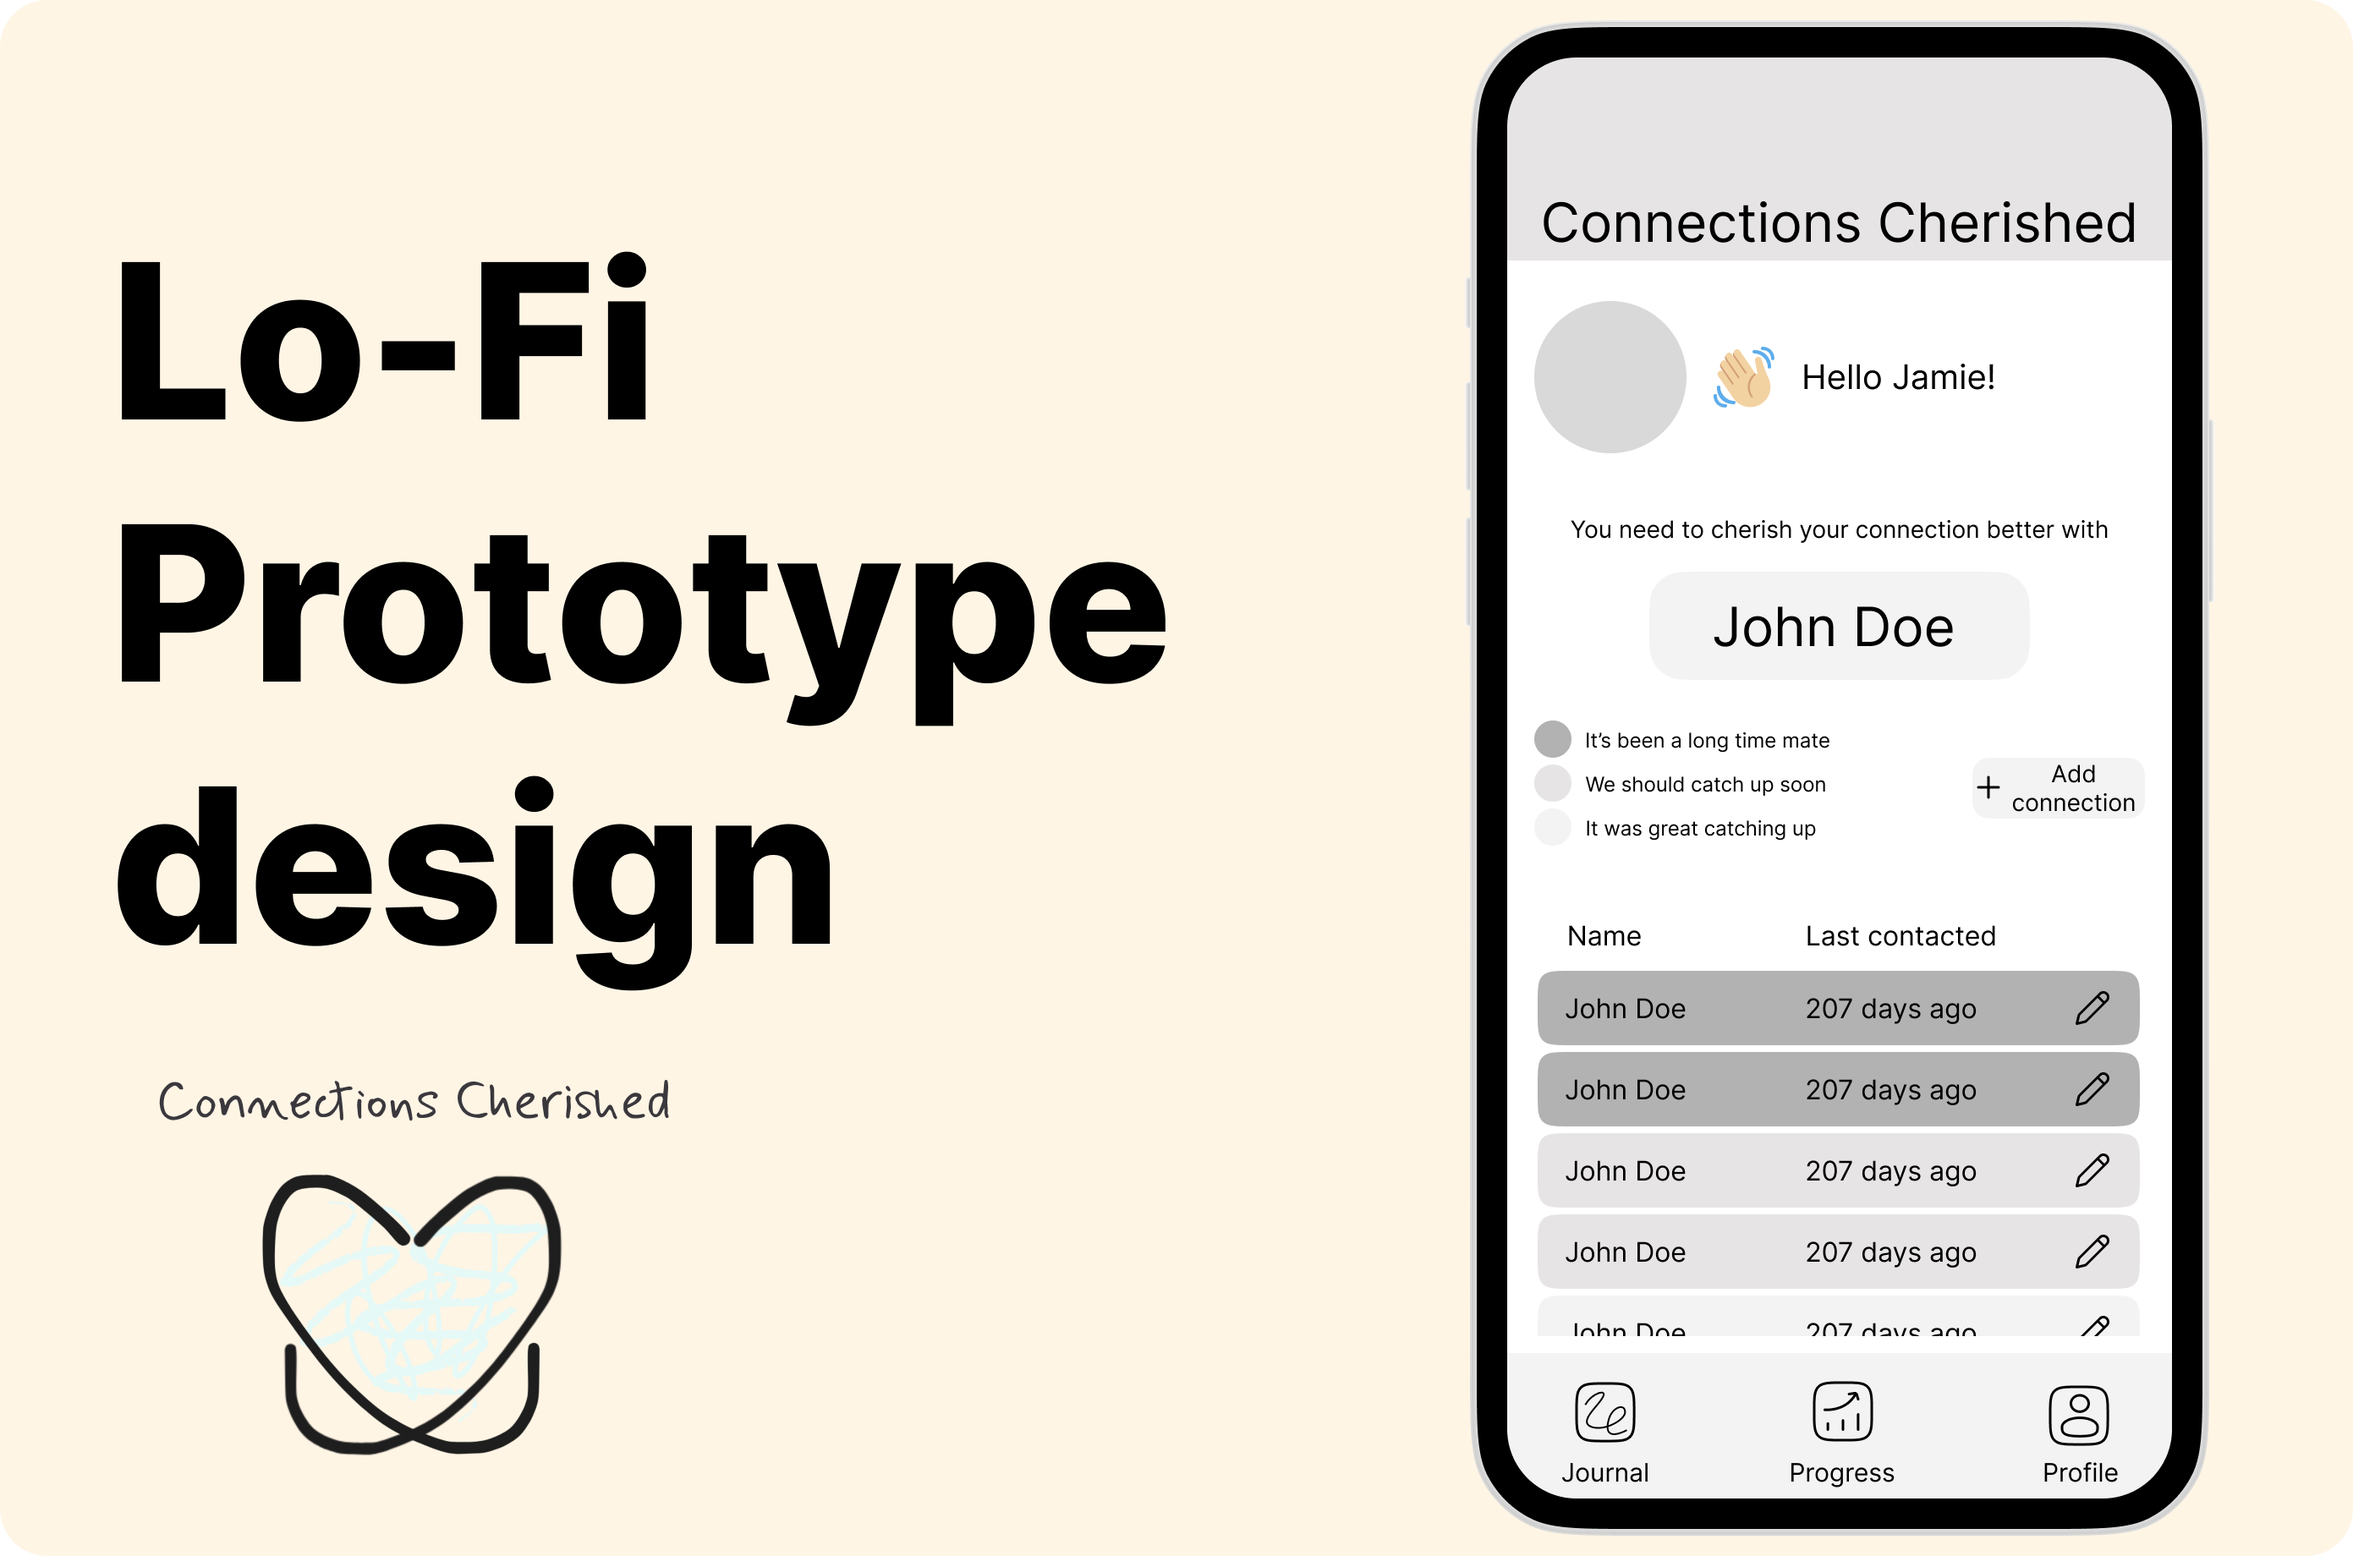
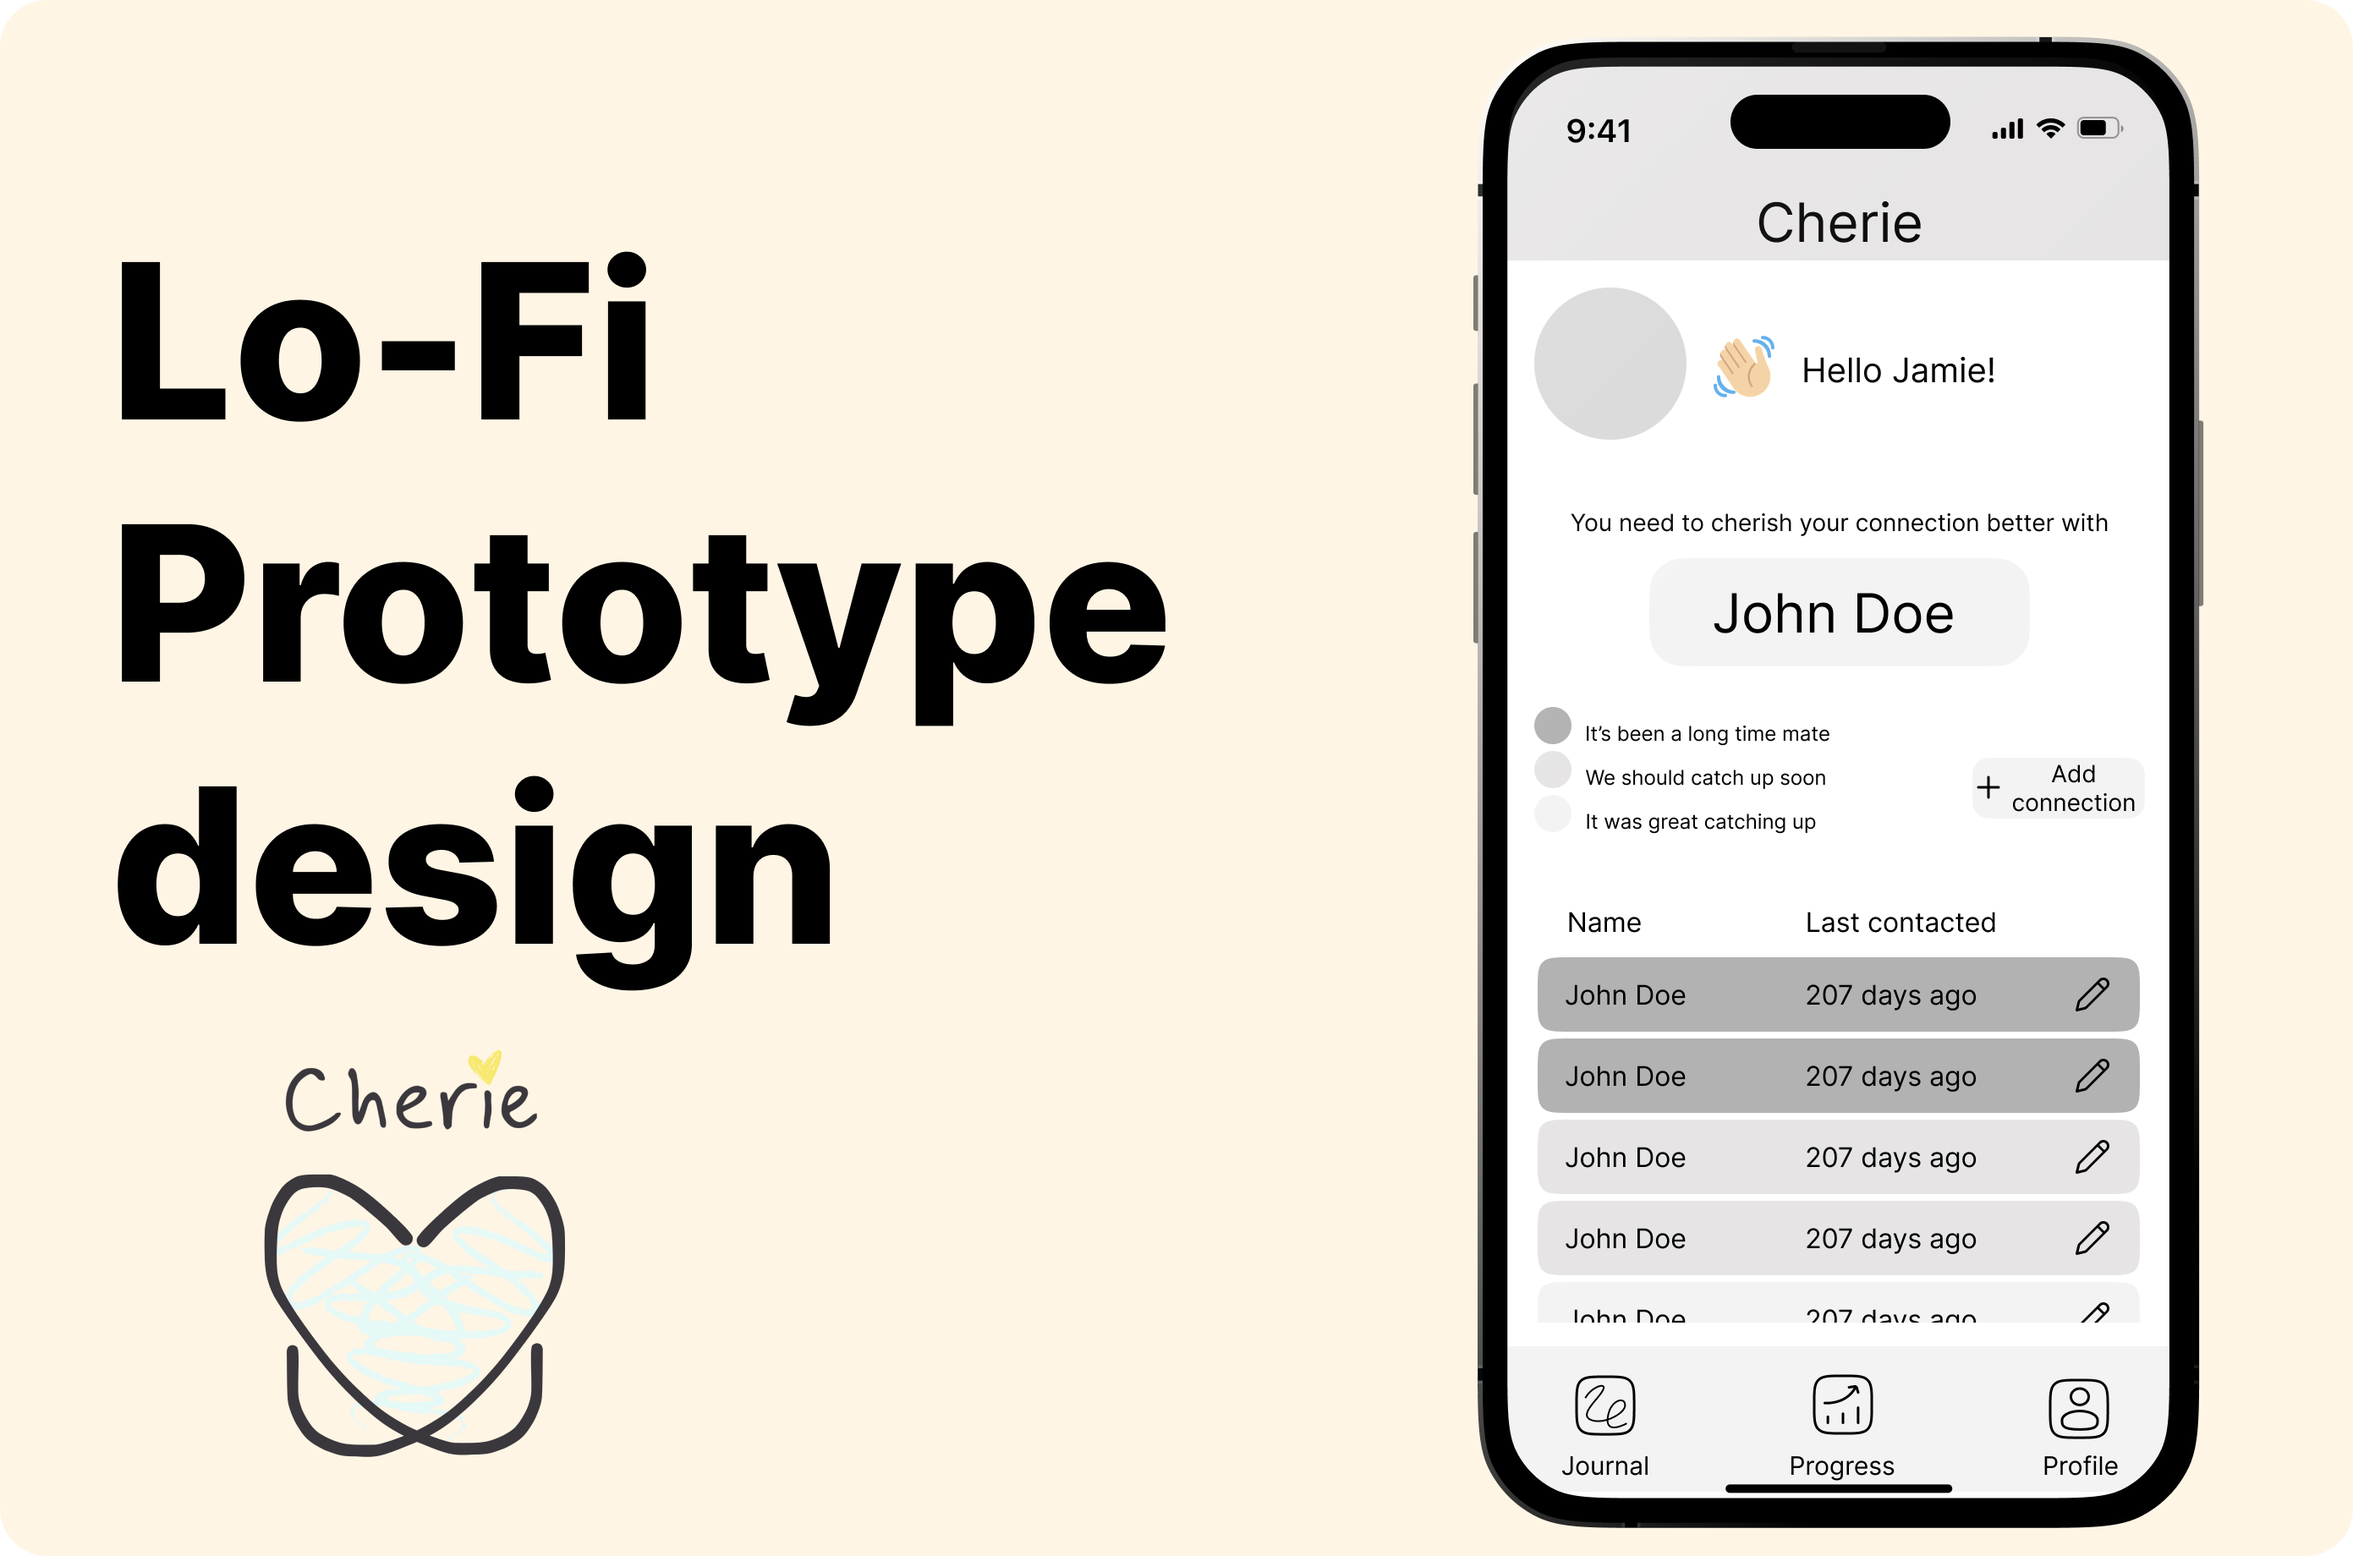
fix protos

diff --git a/pages/projects/connectionsCherished.tsx b/pages/projects/connectionsCherished.tsx
@@ -15,7 +15,7 @@ export default function ConnectionsCherished () {
                 <Image src={`${baseAssetUrl}title.png`} alt="mockup" height={50} width={290} layout="responsive" className="flex w-full h-auto"/>
             </div>
             <div className='header-text w-[80%] md:w-[60%] lg:w-[60%] sm:w-[80%]'>
-                Connections Cherished is designed to help users nurture their friendships by providing <span className='bolder-text'>thoughtful reminders to stay in touch</span>. In today’s fast-paced world, maintaining meaningful relationships can often take a backseat and Cherished Connections seeks to make staying connected effortless.
+                Cherie is designed to help users nurture their friendships by providing <span className='bolder-text'>thoughtful reminders to stay in touch</span>. In today’s fast-paced world, maintaining meaningful relationships can often take a backseat and Cherie seeks to make staying connected effortless.
             </div>
             <div className="flex w-full justify-center perspective-container">
                <div className="grid lg:grid-cols-4 md:grid-cols-4 sm:grid-cols-4 grid-cols-4 gap-2 w-[90%]">
@@ -54,7 +54,7 @@ export default function ConnectionsCherished () {
                 </div>
                 <div className='header-underline mt-2 mb-4'></div> 
                 <div className='description-text w-full'>
-                    In a world dominated by busy schedules and digital distractions, many people struggle to maintain consistent communication with their friends and loved ones. Cherished Connections was born from the insight that small, regular interactions can greatly strengthen relationships, yet they are often overlooked.
+                    In a world dominated by busy schedules and digital distractions, many people struggle to maintain consistent communication with their friends and loved ones. Cherie was born from the insight that small, regular interactions can greatly strengthen relationships, yet they are often overlooked.
                </div>
                <div className="header-title pt-4">
                 User Research Process
@@ -142,7 +142,7 @@ export default function ConnectionsCherished () {
                 </div>
                 <div className='header-underline mt-2 mb-4'></div> 
                 <div className='description-text w-full'>
-                    The design philosophy behind Cherished Connections was <span className='bolder-text'>centered around empathy and usability</span>.
+                    The design philosophy behind Cherie was <span className='bolder-text'>centered around empathy and usability</span>.
                     After identifying key pain points such as <span className='bolder-text'>forgetfulness, scheduling difficulties, and lack of conversation starters</span>, I designed a user-friendly interface that would help users overcome these challenges.
                     <ol className="bullet-list pt-4">
                         <li>
@@ -179,7 +179,7 @@ export default function ConnectionsCherished () {
                         </li>
                         <li>
                             <div className="description-text">
-                                Finally, I brainstormed on suitable color schemes and typography for varied demographics in age and gender, which allowed me to create the  
+                                Finally, I brainstormed on suitable color schemes and typography for varied demographics in age and gender, as well, continued user testing to further expand on functionalities, which allowed me to create the  
                                 &nbsp;<a href="https://www.figma.com/design/Vz1XrgPNydkdhwqEXVdSHL/Hi-Fi-Prototype-Design?node-id=1-2&t=yovivvfiiq1VSM0Z-1" target="_blank" title="Mid-Fi">
                                         <span className="bolder-text" style={{ textDecoration: 'underline', color: 'var(--focus-color)' }}>high-fidelity prototype</span>
                                     </a>&nbsp;
@@ -268,7 +268,7 @@ export default function ConnectionsCherished () {
                 </div>
                 <div className='header-underline mt-2 mb-4'></div> 
                 <div className='description-text w-full'>
-                    Building Cherished Connections was a deeply rewarding experience that allowed me to blend my technical expertise in Flutter with my passion for creating meaningful user experiences. The project taught me the importance of empathy-driven design and the value of user feedback in shaping a product that truly resonates.
+                    Building Cherie was a deeply rewarding experience that allowed me to blend my technical expertise in Flutter with my passion for creating meaningful user experiences. The project taught me the importance of empathy-driven design and the value of user feedback in shaping a product that truly resonates.
                 </div>
                 <div className="header-title pt-4">
                     Future Plans
